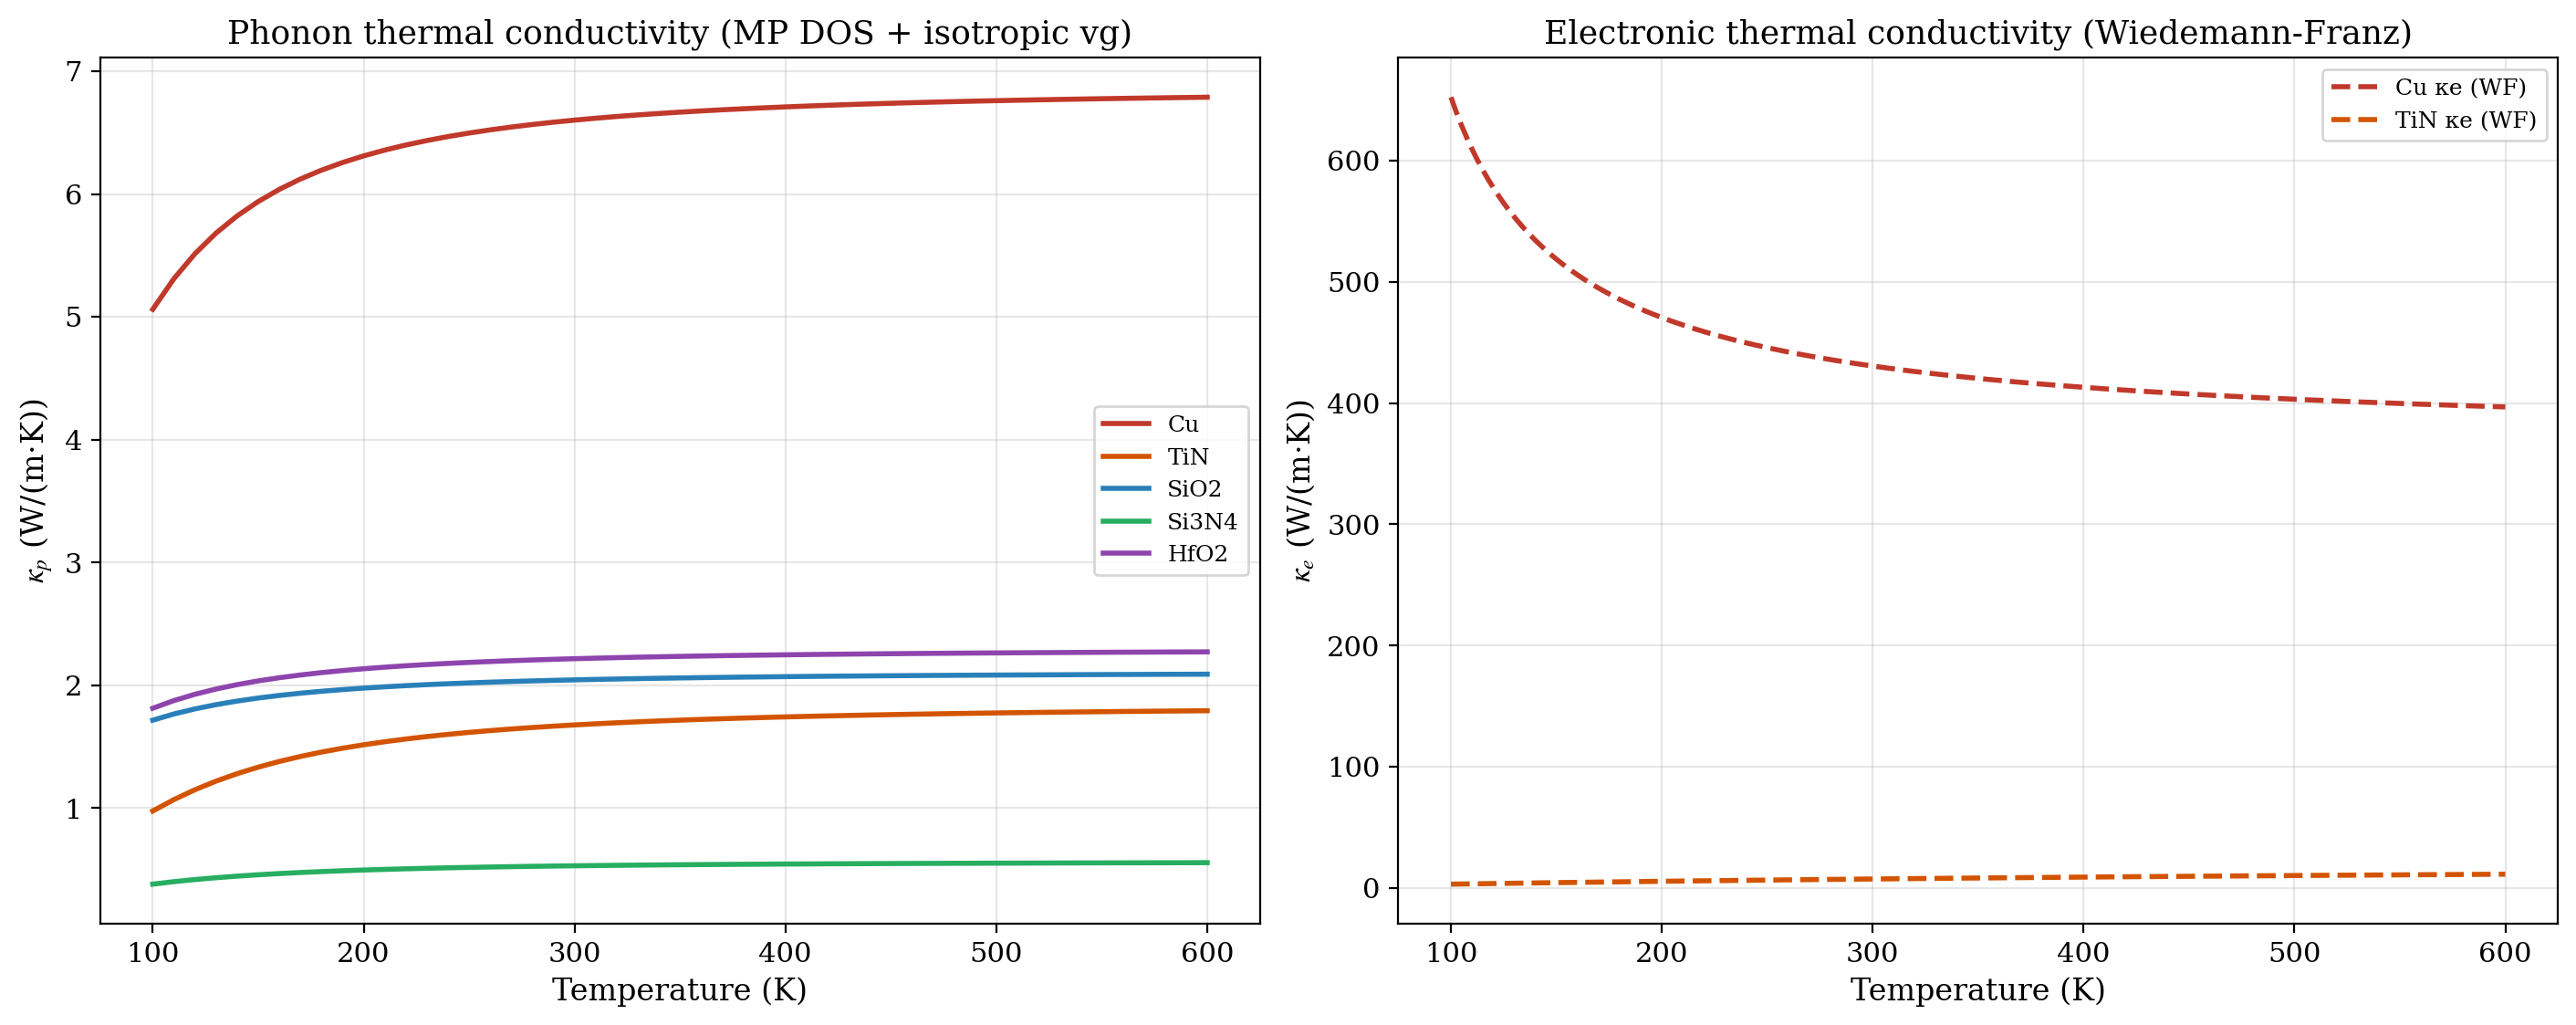
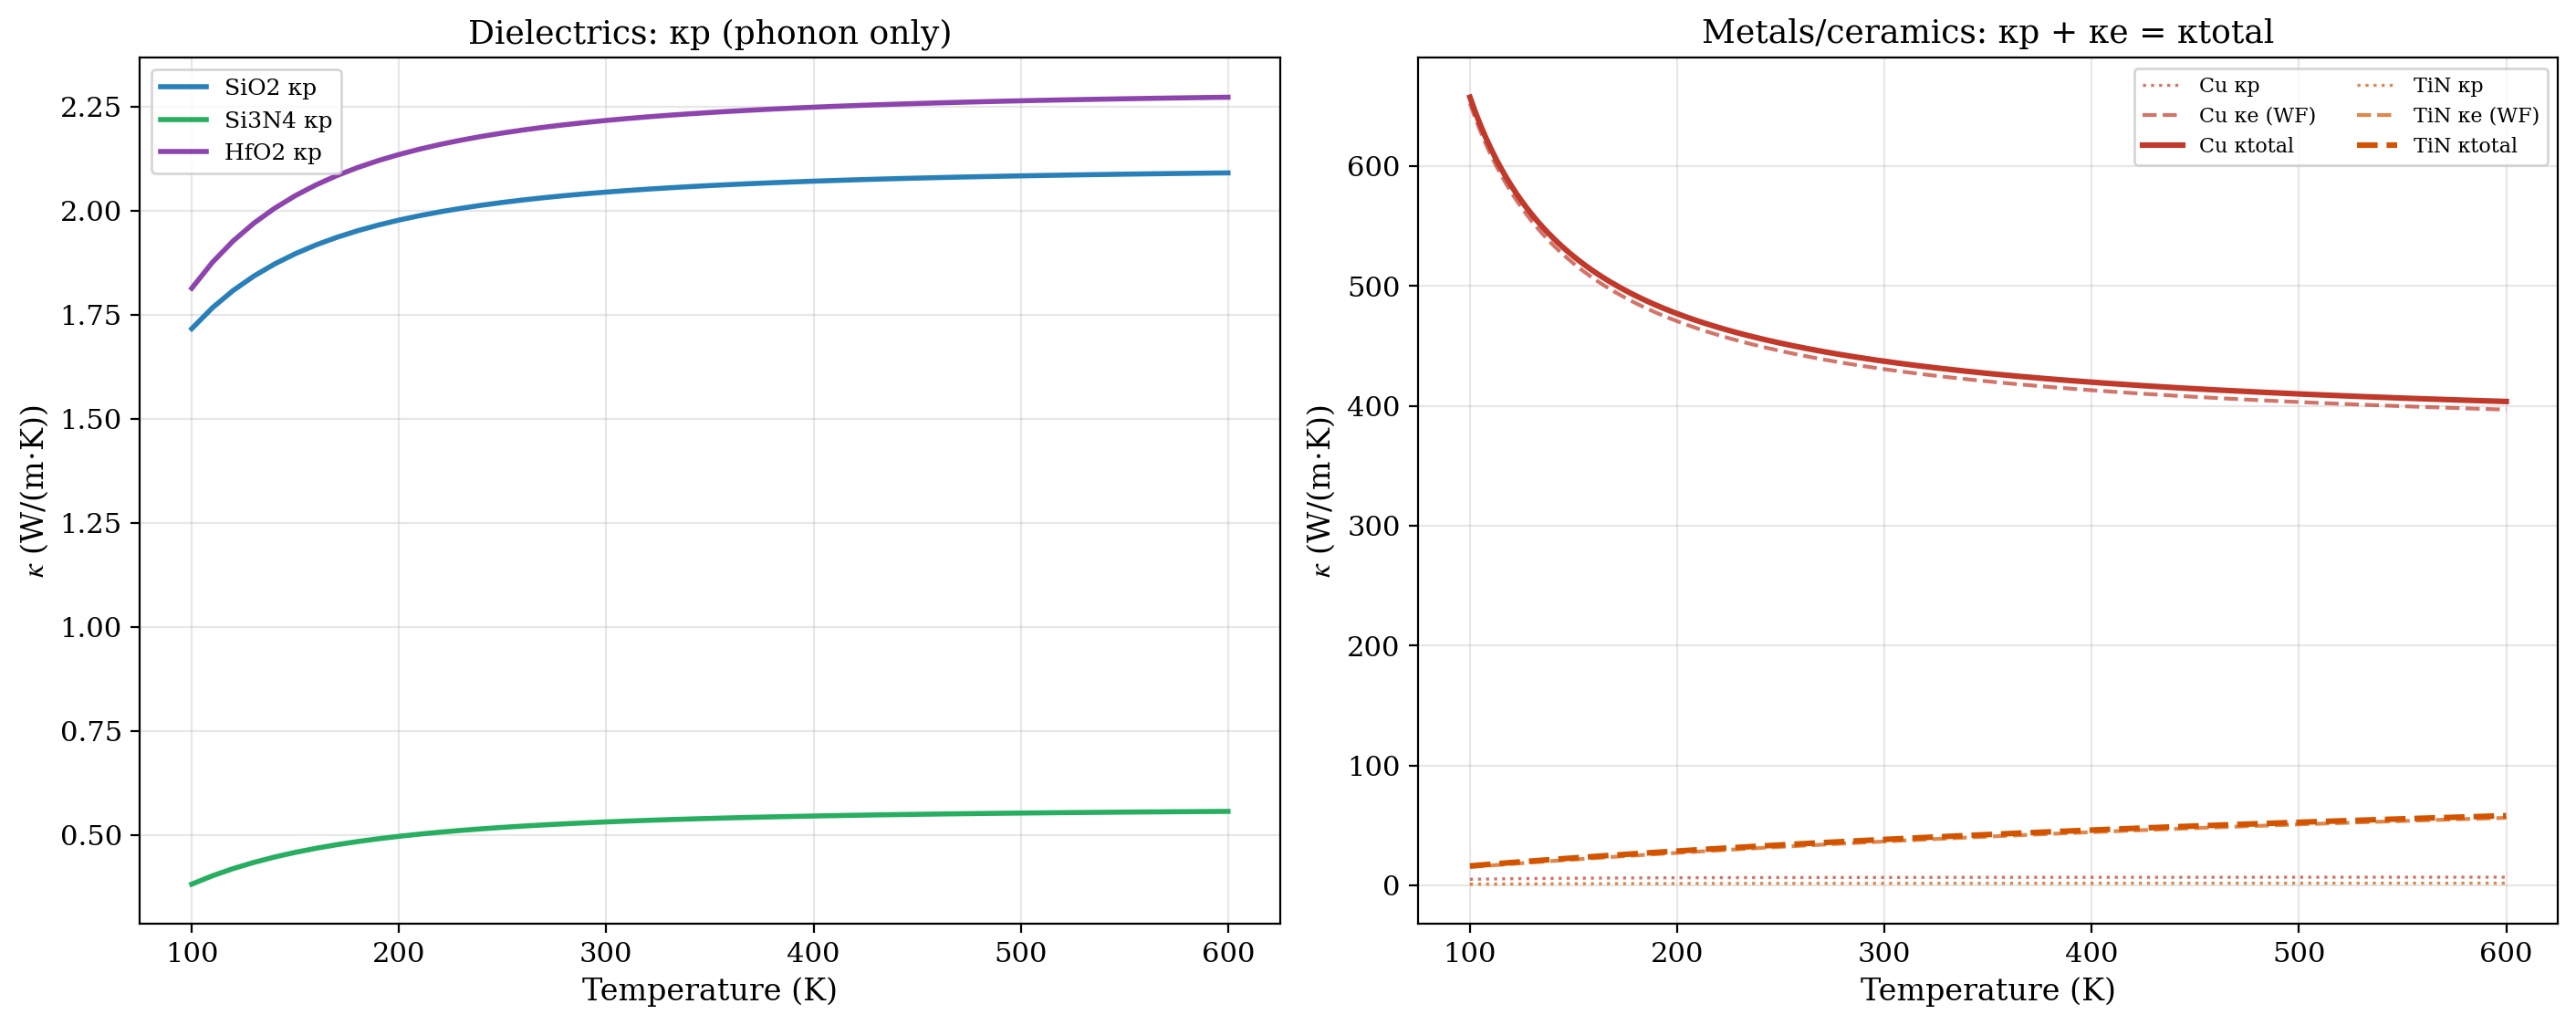
fix: add TiN electronic thermal conductivity to presentation
TiN is a conductive ceramic (not a pure dielectric). Its total κ
includes both phonon and electronic contributions:
  κp(300K) = 1.7 W/(m·K)  (MP DOS + isotropic vg)
  κe(300K) = 36.6 W/(m·K) (Wiedemann-Franz, ρ~20μΩ·cm)
  κtotal   = 38.3 W/(m·K)

Figure 2 now has:
  Left:  dielectrics (SiO2, Si3N4, HfO2) — κp only
  Right: metals/ceramics (Cu, TiN) — κp + κe = κtotal

diff --git a/scripts/generate_presentation_plots.py b/scripts/generate_presentation_plots.py
@@ -191,39 +191,66 @@ def fig1_dispersion_dos():
 def fig2_kappa_T():
     """Temperature-dependent thermal conductivity."""
     T_grid = np.linspace(100, 600, 51)
-    fig, (ax_p, ax_e) = plt.subplots(1, 2, figsize=(14, 5.5), constrained_layout=True)
 
-    for label, props in MATERIALS.items():
+    fig, (ax_diel, ax_metal) = plt.subplots(1, 2, figsize=(14, 5.5), constrained_layout=True)
+
+    # Left: Dielectrics (κp only)
+    for label in ["SiO2", "Si3N4", "HfO2"]:
+        props = MATERIALS[label]
         kp = compute_kappa_T(label, T_grid)
-        ax_p.plot(T_grid, kp, linewidth=2.0, color=props["color"], label=label)
-    ax_p.set_xlabel("Temperature (K)")
-    ax_p.set_ylabel(r"$\kappa_p$ (W/(m·K))")
-    ax_p.set_title("Phonon thermal conductivity (MP DOS + isotropic vg)")
-    ax_p.legend(fontsize=9)
-    ax_p.grid(True, alpha=0.3)
+        ax_diel.plot(T_grid, kp, linewidth=2.0, color=props["color"], label=f"{label} κp")
+    ax_diel.set_xlabel("Temperature (K)")
+    ax_diel.set_ylabel(r"$\kappa$ (W/(m·K))")
+    ax_diel.set_title("Dielectrics: κp (phonon only)")
+    ax_diel.legend(fontsize=9)
+    ax_diel.grid(True, alpha=0.3)
 
-    # Electronic κ for Cu (Wiedemann-Franz)
+    # Right: Metals/conductive ceramics (κp + κe = κtotal)
     T_fine = np.linspace(100, 600, 200)
-    for label, rho0, alpha in [("Cu", 1.7e-8, 0.0039), ("TiN", 1.0e-6, 0.001)]:
+    for label, rho0, alpha, style in [
+        ("Cu", 1.7e-8, 0.0039, "-"),
+        ("TiN", 2.0e-7, 0.001, "--"),   # stoichiometric TiN: rho~20 uOhm·cm
+    ]:
+        props = MATERIALS[label]
+        kp = compute_kappa_T(label, T_grid)
         ke = np.array([kappa_e_wiedemann_franz(float(t), rho0, alpha) for t in T_fine])
-        ax_e.plot(T_fine, ke, linewidth=2.0, color=MATERIALS[label]["color"],
-                 linestyle="--", label=f"{label} κe (WF)")
-    ax_e.set_xlabel("Temperature (K)")
-    ax_e.set_ylabel(r"$\kappa_e$ (W/(m·K))")
-    ax_e.set_title("Electronic thermal conductivity (Wiedemann-Franz)")
-    ax_e.legend(fontsize=9)
-    ax_e.grid(True, alpha=0.3)
+        kp_interp = np.interp(T_fine, T_grid, kp)
+        ktotal = kp_interp + ke
+
+        ax_metal.plot(T_fine, kp_interp, linewidth=1.2, color=props["color"],
+                     linestyle=":", alpha=0.7, label=f"{label} κp")
+        ax_metal.plot(T_fine, ke, linewidth=1.5, color=props["color"],
+                     linestyle="--", alpha=0.7, label=f"{label} κe (WF)")
+        ax_metal.plot(T_fine, ktotal, linewidth=2.2, color=props["color"],
+                     linestyle=style, label=f"{label} κtotal")
+    ax_metal.set_xlabel("Temperature (K)")
+    ax_metal.set_ylabel(r"$\kappa$ (W/(m·K))")
+    ax_metal.set_title("Metals/ceramics: κp + κe = κtotal")
+    ax_metal.legend(fontsize=8, ncol=2)
+    ax_metal.grid(True, alpha=0.3)
 
     fig.savefig(OUTDIR / "02_kappa_T_all.png", dpi=200)
     plt.close(fig)
 
-    # Print κp table
+    # Print table
     print("\n[OK] 02_kappa_T_all.png")
-    print(f"\n{'Material':10s} {'κp(300K)':>12s} {'κp(600K)':>12s}")
-    print("-" * 36)
-    for label in MATERIALS:
-        kp = compute_kappa_T(label, np.array([300.0, 600.0]))
-        print(f"{label:10s} {kp[0]:12.4f} {kp[1]:12.4f}")
+    print(f"\n{'Material':10s} {'κp(300K)':>10s} {'κe(300K)':>10s} {'κtotal':>10s}  Notes")
+    print("-" * 58)
+    for label in ["Cu", "TiN", "SiO2", "Si3N4", "HfO2"]:
+        kp = compute_kappa_T(label, np.array([300.0]))[0]
+        if label == "Cu":
+            ke = kappa_e_wiedemann_franz(300, 1.7e-8, 0.0039)
+        elif label == "TiN":
+            ke = kappa_e_wiedemann_franz(300, 2.0e-7, 0.001)
+        else:
+            ke = 0.0
+        ktot = kp + ke
+        note = ""
+        if label == "TiN":
+            note = "(stoichiometric, ρ~20μΩ·cm)"
+        elif label == "Cu":
+            note = "(bulk Cu, ρ~1.7μΩ·cm)"
+        print(f"{label:10s} {kp:10.4f} {ke:10.1f} {ktot:10.1f}  {note}")
 
 
 # ======================================================================
@@ -322,8 +349,18 @@ def fig4_summary():
     T_grid = np.array([100, 200, 300, 400, 500, 600])
     for label in MATERIALS:
         kp = compute_kappa_T(label, T_grid)
-        lines.append(f"  {label:8s}: " +
-                     " ".join(f"κ({int(T)}K)={kp[i]:.3f}" for i, T in enumerate(T_grid)))
+        if label == "Cu":
+            ke_vals = [kappa_e_wiedemann_franz(float(t), 1.7e-8, 0.0039) for t in T_grid]
+            ttype = "κp+κe"
+        elif label == "TiN":
+            ke_vals = [kappa_e_wiedemann_franz(float(t), 2.0e-7, 0.001) for t in T_grid]
+            ttype = "κp+κe"
+        else:
+            ke_vals = [0.0]*len(T_grid)
+            ttype = "κp only"
+        ktot = [kp[i]+ke_vals[i] for i in range(len(T_grid))]
+        lines.append(f"  {label:8s} ({ttype:>8s}): " +
+                     " ".join(f"κ({int(T)}K)={ktot[i]:.3f}" for i, T in enumerate(T_grid)))
 
     lines += [
         "",